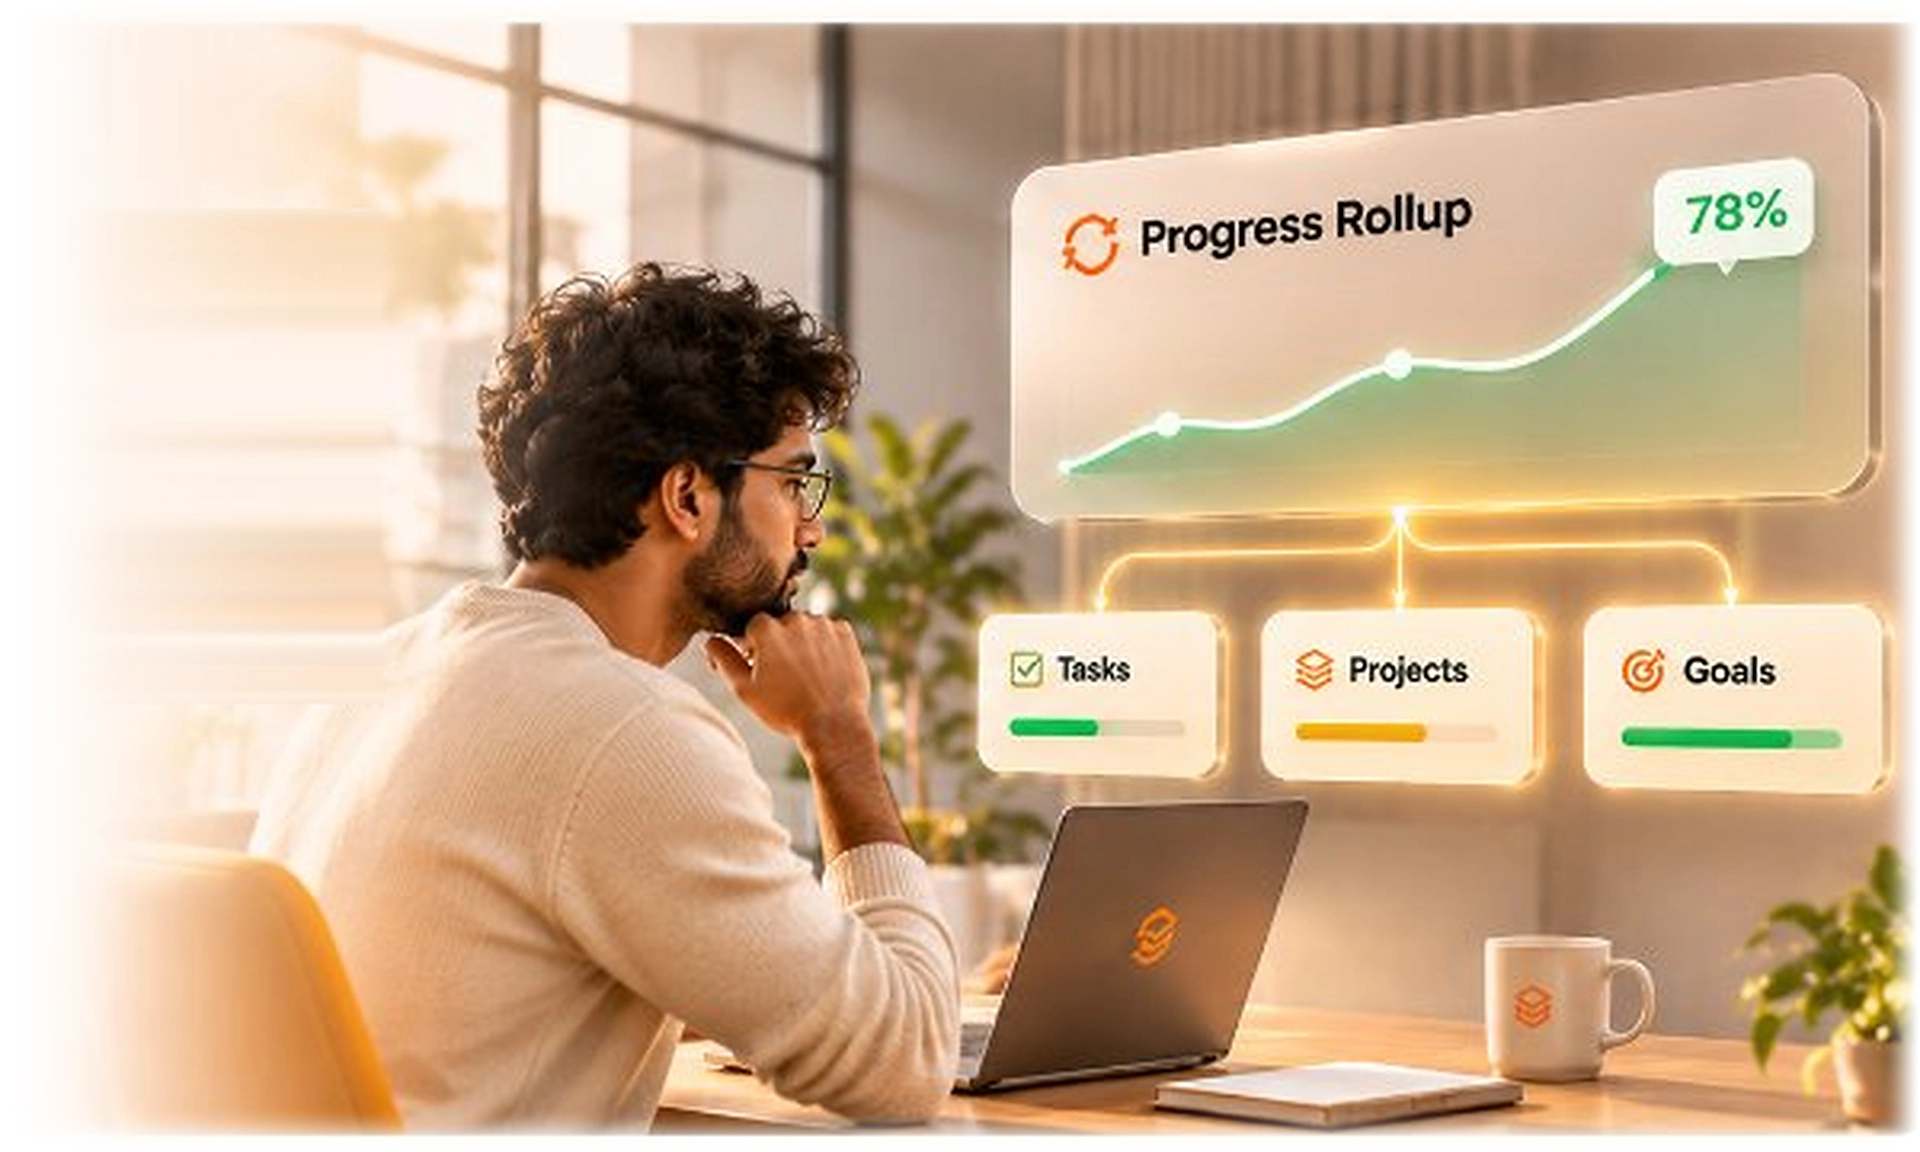
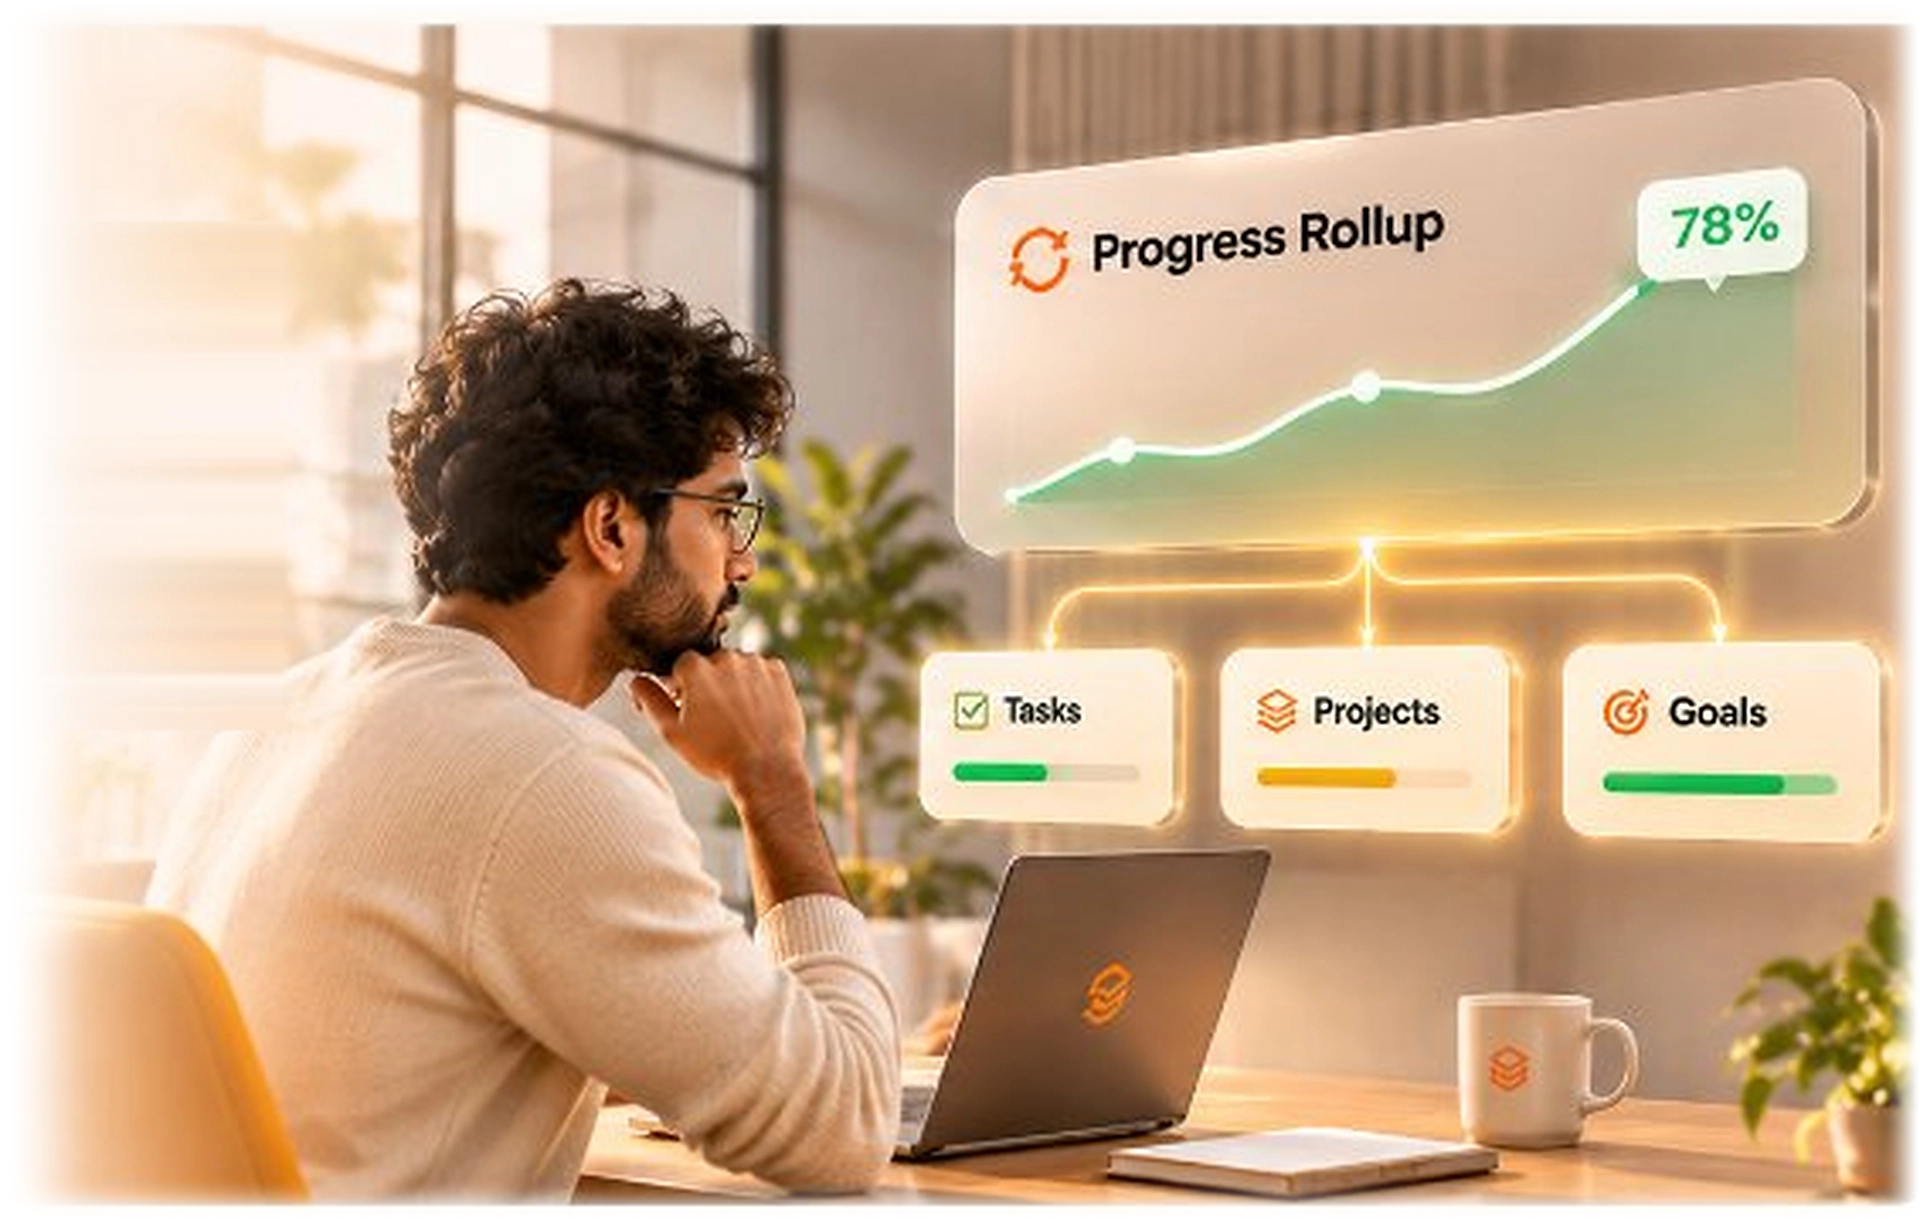
fix(rollups): refine hero section image quality, mobile navbar spacing, and remove nested card frame

diff --git a/dist/index.html b/dist/index.html
@@ -85,13 +85,13 @@
       .bg-surface-ambient { background-color: #faf6f0; }
       .text-espresso { color: #271812; }
     </style>
-    <script type="module" crossorigin src="/assets/index-CbFnpuE8.js"></script>
+    <script type="module" crossorigin src="/assets/index-D8MLwOr2.js"></script>
     <link rel="modulepreload" crossorigin href="/assets/react-vendor-Cl8JyyCr.js">
     <link rel="modulepreload" crossorigin href="/assets/icons-vendor-C2AaqwzH.js">
     <link rel="modulepreload" crossorigin href="/assets/motion-vendor-BrqU43Hn.js">
-    <link rel="preload" href="/assets/index-CvjbHZTG.css" as="style">
-    <link rel="stylesheet" href="/assets/index-CvjbHZTG.css" media="print" onload="this.media='all'">
-    <noscript><link rel="stylesheet" href="/assets/index-CvjbHZTG.css"></noscript>
+    <link rel="preload" href="/assets/index-BGE-qMo1.css" as="style">
+    <link rel="stylesheet" href="/assets/index-BGE-qMo1.css" media="print" onload="this.media='all'">
+    <noscript><link rel="stylesheet" href="/assets/index-BGE-qMo1.css"></noscript>
   </head>
   <body class="bg-surface-ambient text-espresso antialiased">
     <div id="root"></div>

diff --git a/src/components/rollups/RollupHeroSection.tsx b/src/components/rollups/RollupHeroSection.tsx
@@ -96,7 +96,7 @@ export const RollupHeroSection: React.FC = () => {
   return (
     <section
       ref={sectionRef}
-      className="relative pt-16 sm:pt-20 lg:pt-20 pb-6 sm:pb-8 lg:pb-10 px-4 sm:px-6 lg:px-[60px] max-w-[1720px] 2xl:max-w-[1840px] mx-auto overflow-hidden w-full"
+      className="relative pt-28 sm:pt-32 lg:pt-20 pb-6 sm:pb-8 lg:pb-10 px-4 sm:px-6 lg:px-[60px] max-w-[1720px] 2xl:max-w-[1840px] mx-auto overflow-hidden w-full"
     >
       {/* Subtle Ambient Decorative Glow */}
       <motion.div
@@ -159,7 +159,7 @@ export const RollupHeroSection: React.FC = () => {
               src="/assets/astrav_automated_rollup_hero.png"
               alt="Astrav Automated Progress Rollups - Live progress monitoring across tasks, projects, and goals"
               width={1920}
-              height={1152}
+              height={1223}
               fetchPriority="high"
               loading="eager"
               decoding="async"
